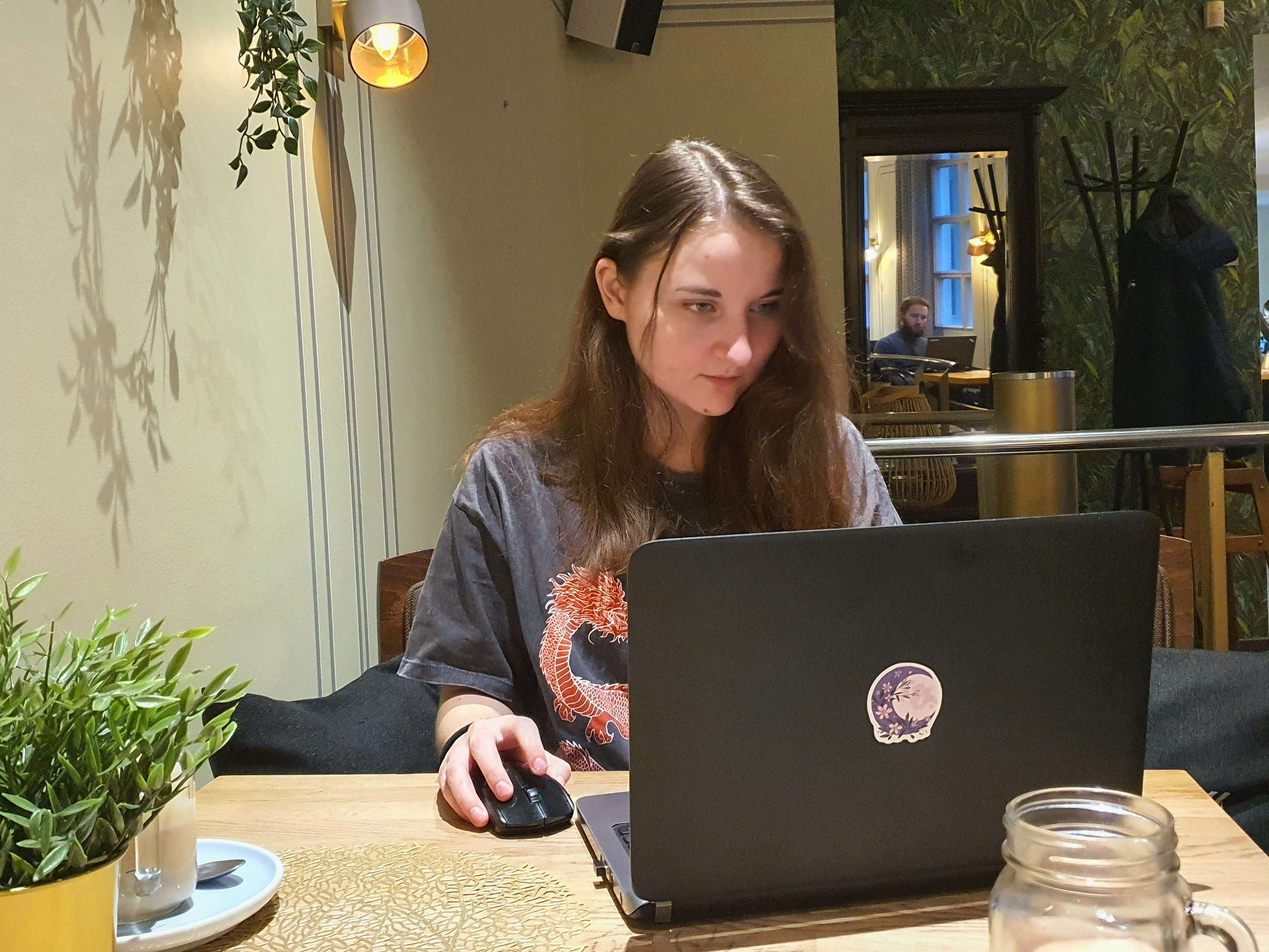
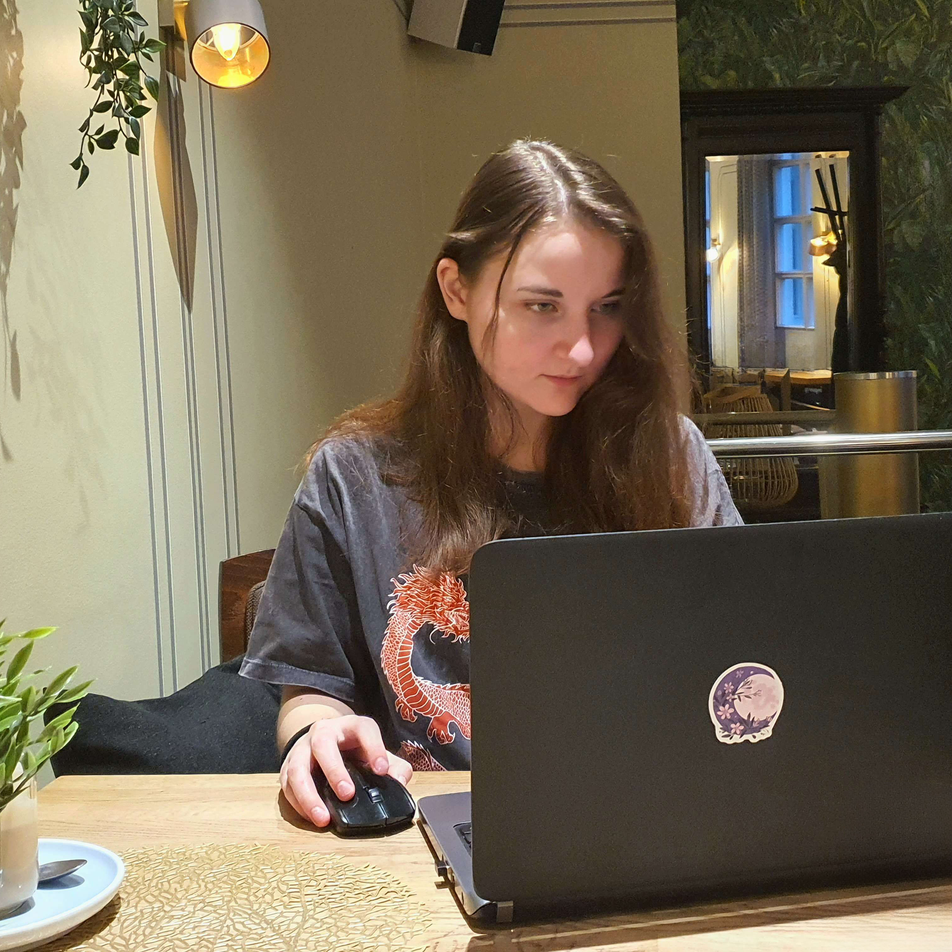
Better quality picture, made About Me page

diff --git a/styles.css b/styles.css
@@ -10,6 +10,7 @@
 html {
     scroll-behavior: smooth;
     overflow: auto;
+    overflow-x: hidden;
 }
 
 h1 {
@@ -41,6 +42,8 @@ body {
     color: white;
     background: linear-gradient(0deg,#000000, #0C0032 ) no-repeat;
     font-family: 'Zen Maru Gothic Light';
+    height: 100%;
+    width: 100%;
 }
 
 .container {
@@ -76,21 +79,26 @@ body {
     flex-direction: column;
     justify-content: center;
     align-items: center;
-    padding: 100px;
-    margin: 20px 20% 100px 20%;
+    padding: 20px;
+    margin: 50px 20% 50px 20%;
     background: linear-gradient(black, black) padding-box,
               linear-gradient(to right, darkblue, darkorchid) border-box;
     border-radius: 25px;
     border: 4px solid transparent;
+    
 }
 
 .picture {
     position: relative;
-    width: 500px; 
-    height: 500px; 
-    margin: 100px auto 0; 
-   
+    width: 400px; 
+    height: 400px; 
+    margin: 150px auto 0; 
+    margin-bottom: 50px;
     overflow: hidden;
+    background: linear-gradient(black, black) padding-box,
+              linear-gradient(to right, darkblue, darkorchid) border-box;
+    border-radius: 25px;
+    border: 4px solid transparent;
 }
 
 .resize_fit_center {
@@ -100,11 +108,7 @@ body {
     top: 50%;
     left: 50%;
     transform: translate(-50%, -50%);
-
-    background: linear-gradient(black, black) padding-box,
-              linear-gradient(to right, darkblue, darkorchid) border-box;
-    border-radius: 25px;
-    border: 4px solid transparent;
+    
 }
 
 /*Button*/ 
@@ -326,3 +330,11 @@ nav a {
 }
 
 /*Footer*/
+
+footer {
+    bottom: 0;
+    display: flex;
+    justify-content: center;
+    align-items: center;
+    margin-top: 100px;
+}

diff --git a/about.html b/about.html
@@ -17,12 +17,22 @@
             <li><a href="about.html" class="hover-underline-animation">About Me</a></li>
         </ul>
     </nav>
-    <h1>About Me</h1>
+    <div class="heading">
+        <h1>About Me</h1>
+    </div>
 
     <div class="picture">
         <img class="resize_fit_center" src="images/lilii.jpg" alt="Lilii-Ann">
     </div>
-    
+
+    <div class="container">
+        <div class="textbox"></div>
+        <div class="textbox"></div>
+    </div>
+
+    <footer>
+        <p>&copy; 2024 Lilii-Ann</p>
+    </footer>
 
     <script src="loader.js"></script>
 

diff --git a/hobby.html b/hobby.html
@@ -17,6 +17,7 @@
             <li><a href="about.html" class="hover-underline-animation">About Me</a></li>
         </ul>
     </nav>
+    
     <div class="heading">
         <h1>My Hobbies</h1>
     </div>
@@ -32,7 +33,10 @@
       
 
     <div class="container"></div>
-        <div class="textbox"></div>
+        <div class="textbox">
+            <h2></h2>
+            <p></p>
+        </div>
     </div>
 
     <footer>
